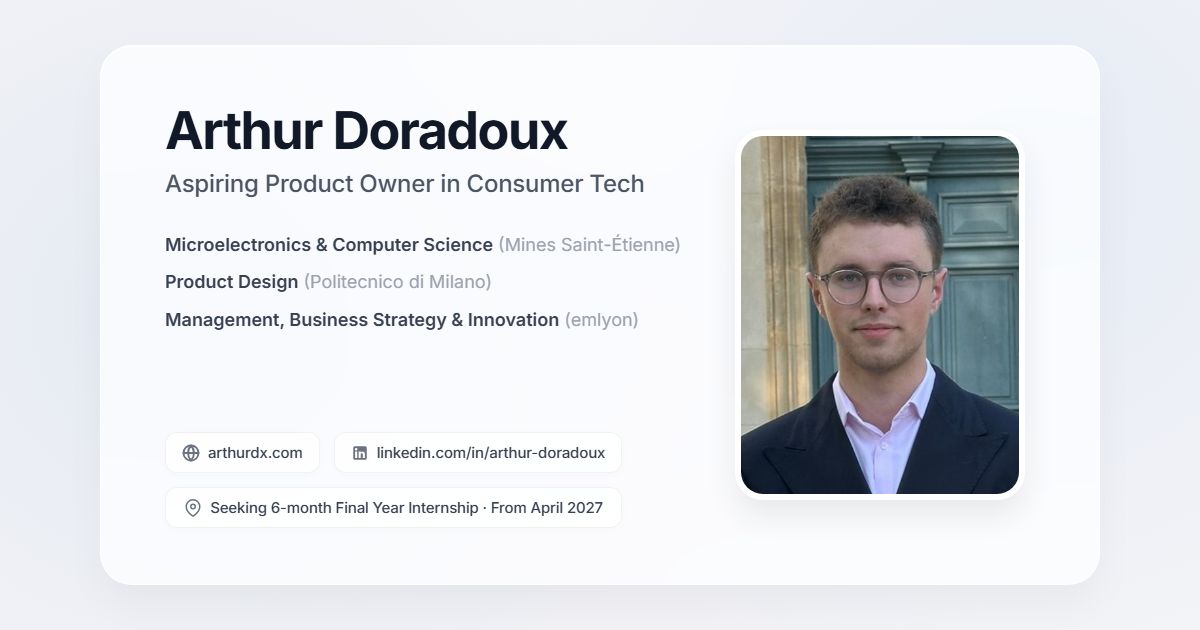
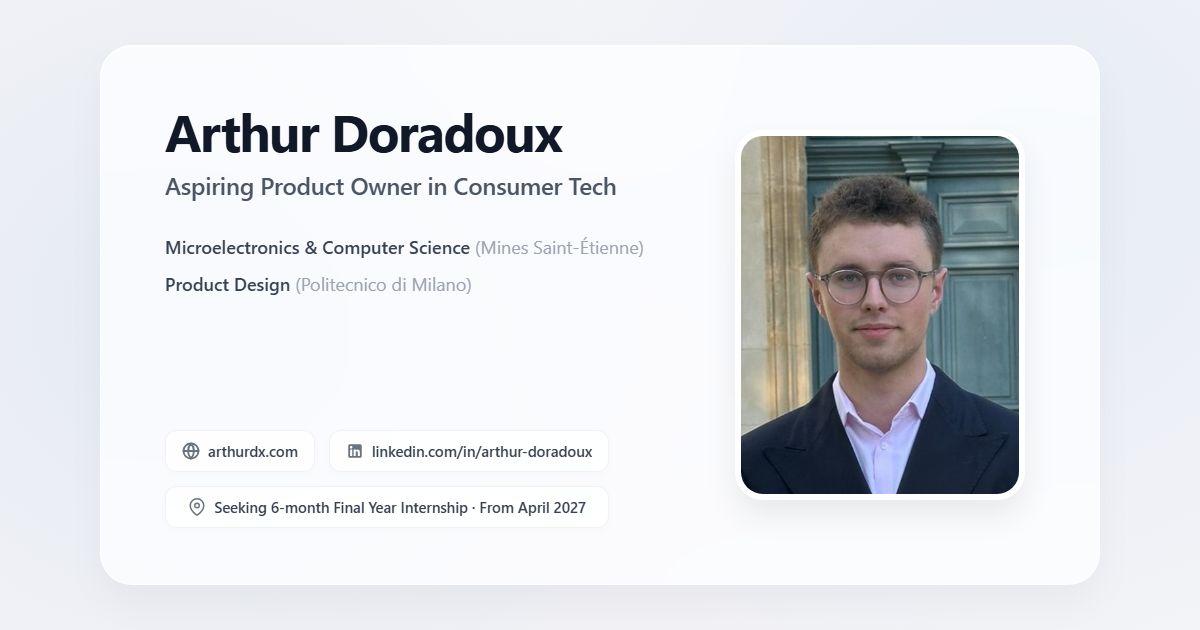
style: fine-tune badges, layout spacing and social preview assets

diff --git a/src/i18n/translations.ts b/src/i18n/translations.ts
@@ -44,8 +44,10 @@ export const dict = {
       en: 'In the long term, my dream is to grow into <strong>Product Owner / Product Manager</strong> roles at the heart of technological innovation, bridging technical feasibility, user experience, and strategy.'
     },
     visionQuote: {
-      fr: "Mon objectif est de construire une véritable triple compétence en ingénierie, en design (via le Politecnico di Milano) et en management (via emlyon business school) pour porter des produits technologiques à fort impact.",
-      en: 'My goal is to build a genuine triple competency across engineering, design (via Politecnico di Milano) and management (via emlyon business school) to lead high-impact technological products.'
+      // fr: "Mon objectif est de construire une véritable triple compétence en ingénierie, en design (via le Politecnico di Milano) et en management (via emlyon business school) pour porter des produits technologiques à fort impact.",
+      // en: 'My goal is to build a genuine triple competency across engineering, design (via Politecnico di Milano) and management (via emlyon business school) to lead high-impact technological products.',
+      fr: "Mon objectif est de construire une véritable triple compétence en ingénierie, en design (via le Politecnico di Milano) et en management pour porter des produits technologiques à fort impact.",
+      en: 'My goal is to build a genuine triple competency across engineering, design (via Politecnico di Milano) and management to lead high-impact technological products.'
     },
     careerKicker: { fr: 'Parcours' },
     careerTitle: { fr: 'Expérience', en: 'Experience' },

diff --git a/public/preview-og.html b/public/preview-og.html
@@ -180,9 +180,9 @@
           <div class="edu-item">
             <span><b>Product Design</b> <span class="school">(Politecnico di Milano)</span></span>
           </div>
-          <div class="edu-item">
+          <!-- <div class="edu-item">
             <span><b>Management, Business Strategy & Innovation</b> <span class="school">(emlyon)</span></span>
-          </div>
+          </div> -->
         </div>
       </div>
 
